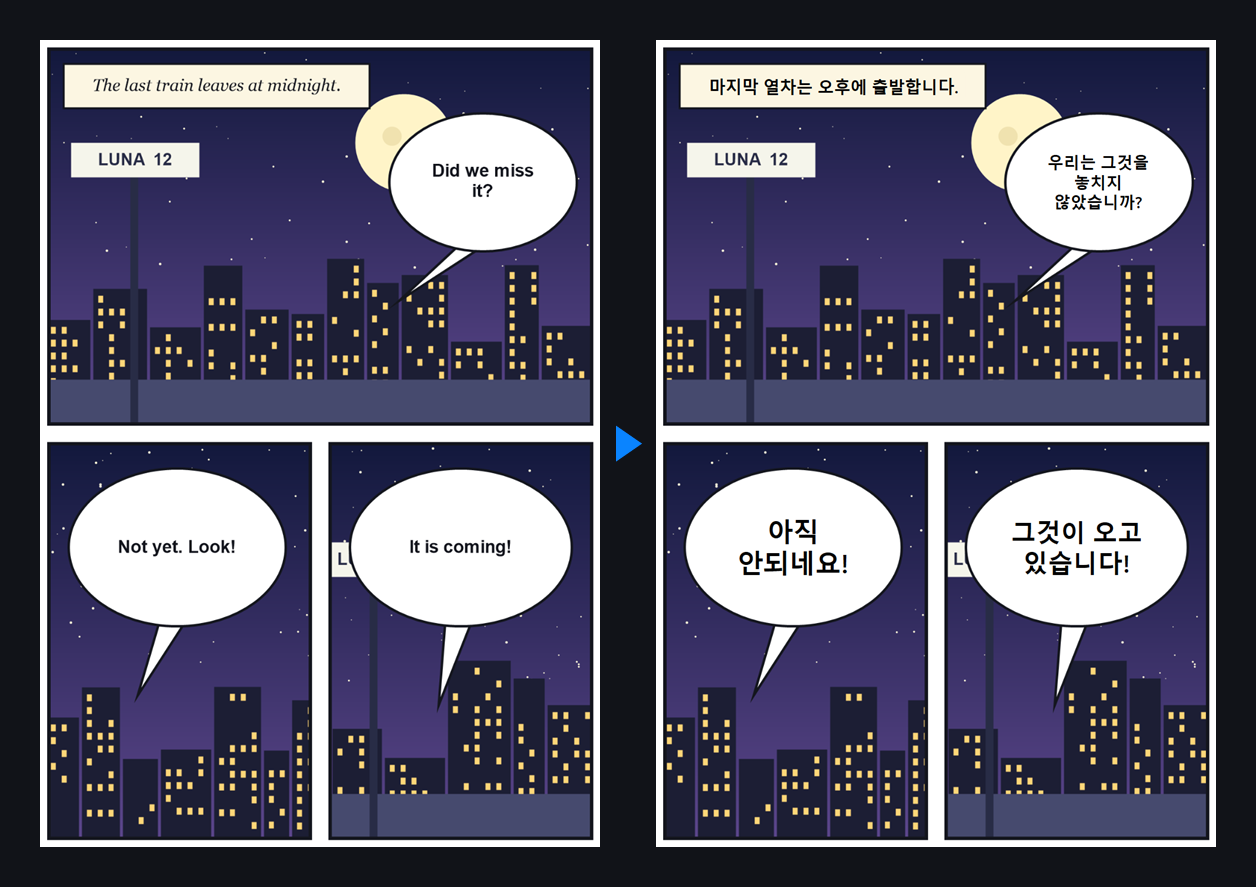
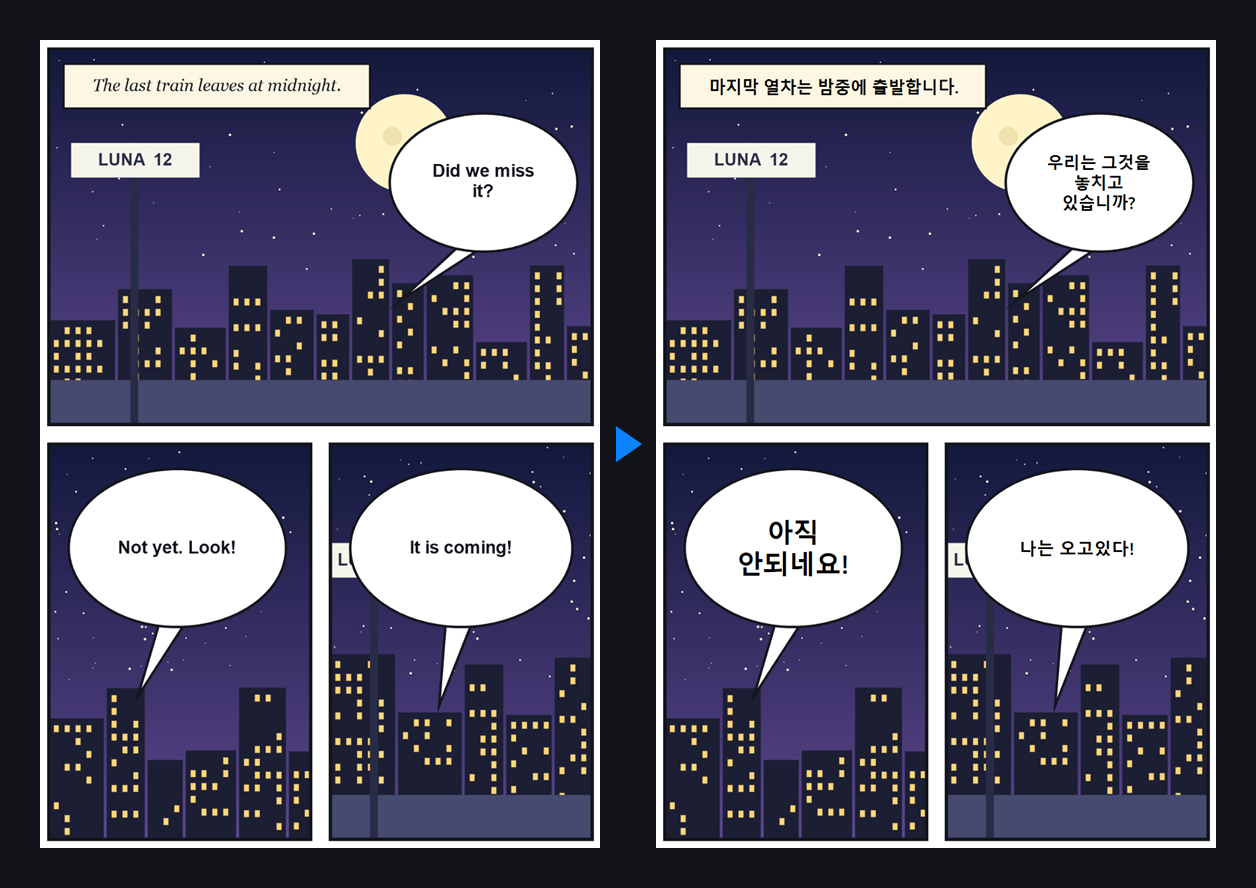
리드미 수정

diff --git a/README.ko.md b/README.ko.md
@@ -66,7 +66,7 @@
 장치 배분은 실측 결과입니다. 말풍선 탐지는 GPU에서 약 2.5배 빠르고, 글자 인식과 번역 모델은 CPU가 더 빠릅니다. `PANELY_ORT_DEVICE=cpu`로 GPU를 완전히 끌 수 있습니다.
 
 > [!NOTE]
-> 번역 품질은 작은 M2M100 모델의 한계가 있습니다. 짧은 대사와 관용 표현은 자주 틀립니다. 위 예시에서도 "midnight"가 "오후"로 번역됐습니다. 모델이 번역하지 못한 말풍선은 원문을 그대로 보여 주며, 말풍선 편집에서 어떤 말풍선이든 직접 고칠 수 있습니다.
+> 번역 품질은 작은 M2M100 모델의 한계가 있습니다. 짧은 대사와 관용 표현은 자주 틀리며, 위 예시에도 틀린 말풍선이 있습니다. 모델이 번역하지 못한 말풍선은 원문을 그대로 보여 주며, 말풍선 편집에서 어떤 말풍선이든 직접 고칠 수 있습니다.
 
 ## 시작하기
 
@@ -157,7 +157,10 @@ dotnet build Panely.sln
 dotnet test tests/Panely.Tests
 dotnet run --project src/Panely.App -- "D:\Comics\Series A"
 powershell -ExecutionPolicy Bypass -File tools\make-samples.ps1 -Out D:\PanelySamples   # QA 샘플 라이브러리
+powershell -ExecutionPolicy Bypass -File tools\readme-screenshots.ps1                   # docs\images 다시 만들기
 ```
+
+`readme-screenshots.ps1`은 합성 데모 만화(`tools\make-demo.ps1`)를 설치된 앱으로 열어, 실제 데이터와 분리된 데이터 폴더에서 영어·한국어 UI의 원본·번역 화면을 찍습니다. 먼저 앱을 설치하고 언어팩을 받아 두세요. 실행하는 동안(약 1분) Panely 창이 여러 번 열리고 닫힙니다.
 
 ### 데이터와 환경 변수
 

diff --git a/README.md b/README.md
@@ -66,7 +66,7 @@ Panely can find speech balloons, read the text and draw a translation over the p
 The device split comes from measurements: detection is about 2.5× faster on the GPU, while the OCR and translation models are faster on the CPU. Set `PANELY_ORT_DEVICE=cpu` to turn off the GPU entirely.
 
 > [!NOTE]
-> Translation quality is limited by the small M2M100 model. Short lines and idioms are often wrong — in the example above, "midnight" became "afternoon". Balloons the model can't translate keep their original text, and you can correct any balloon in Edit Balloons.
+> Translation quality is limited by the small M2M100 model. Short lines and idioms are often wrong, as some balloons in the example above show. Balloons the model can't translate keep their original text, and you can correct any balloon in Edit Balloons.
 
 ## Getting started
 
@@ -157,7 +157,10 @@ dotnet build Panely.sln
 dotnet test tests/Panely.Tests
 dotnet run --project src/Panely.App -- "D:\Comics\Series A"
 powershell -ExecutionPolicy Bypass -File tools\make-samples.ps1 -Out D:\PanelySamples   # QA sample library
+powershell -ExecutionPolicy Bypass -File tools\readme-screenshots.ps1                   # regenerate docs\images
 ```
+
+`readme-screenshots.ps1` opens a synthetic demo comic (`tools\make-demo.ps1`) in the installed app with a separate data folder, and captures the English and Korean UI with and without translation. Install the app and download the language pack first; Panely windows open and close while it runs (about a minute).
 
 ### Data and environment variables
 
